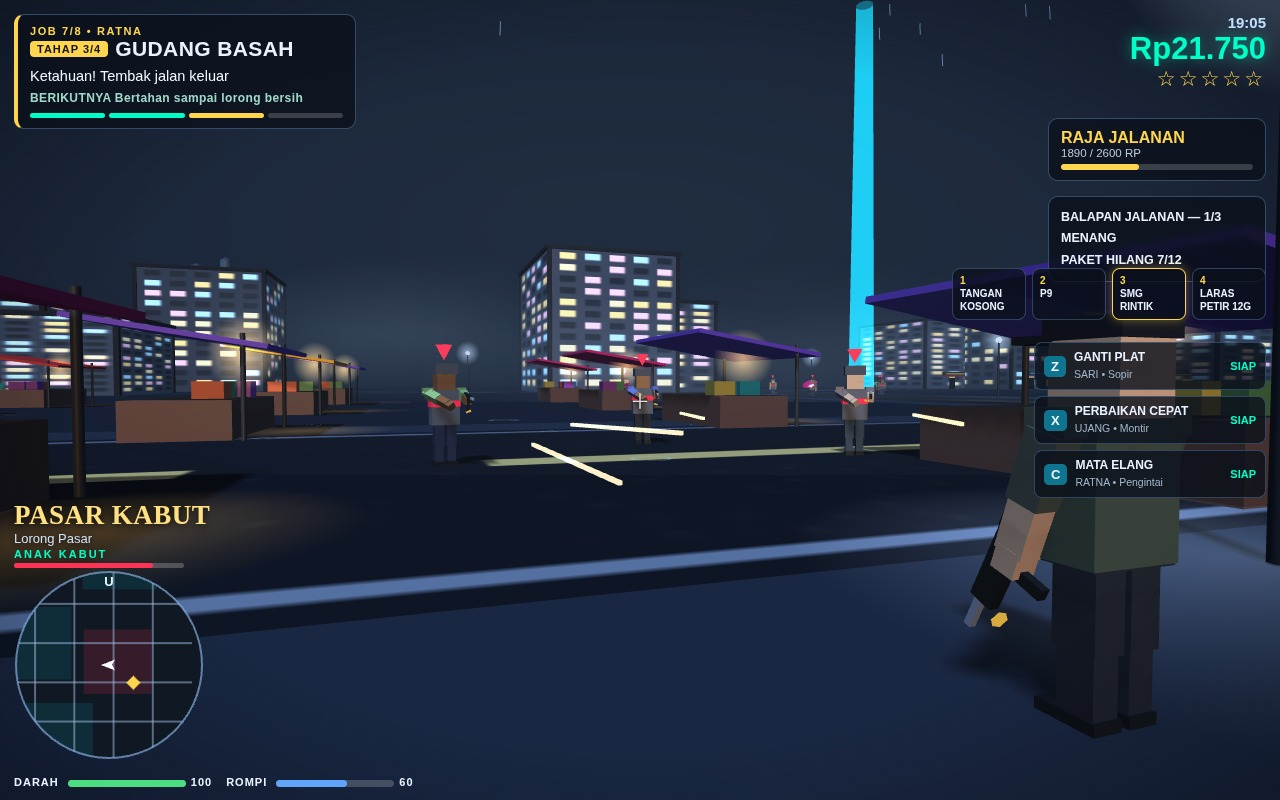
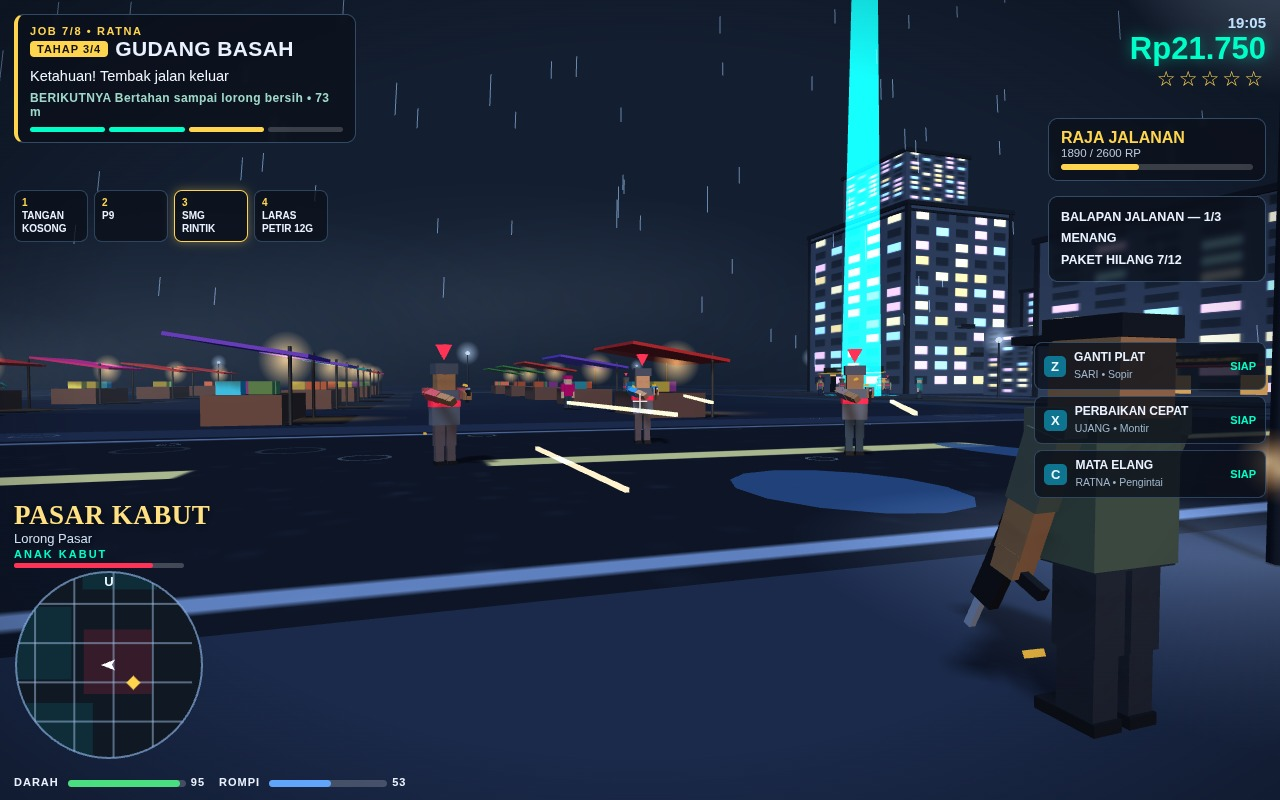
rev6: station sign rides as a lightbox over the entrance portal (clear of columns/beams from street + vista); weapon slots move under the mission panel (dispatch stacks below them); cover/duel/title re-captured

diff --git a/game/src/city.js b/game/src/city.js
@@ -811,12 +811,31 @@ function buildStasiun(world) {
   // THE SIGN, twice: the original board faces the platform (+Z). The
   // street board used to sit beside it on the roofline — but the new
   // parapet hid its lower half from street level (item-16, owner:
-  // "sign-nya nggak kelihatan"). It now hangs on the FACADE, in the
-  // band between the arch tops (y 8) and the cornice (y 12.45),
-  // proud of both, rotated PI so the street reads STASIUN KOTA
-  // correctly — fully visible from the forecourt and from above.
+  // "sign-nya nggak kelihatan"). It then hung on the FACADE band
+  // (y 10.35, z cz-5.15) — and STILL lost its edges: the entrance
+  // portal columns stand at z-front 226.15, in FRONT of that plane,
+  // and from the low vista camera they clipped the S of STASIUN and
+  // the JAM of the sub-line while the cornice and canopy lines
+  // hemmed it top and bottom (owner, on the final cover: "masih
+  // ketutupan palang"). So the board now rides as a lightbox on two
+  // risers over the entrance portal at z cz-9.5 — in front of the
+  // facade, the arches, the portal columns and the canopy, with
+  // clear air on every side, so NOTHING crosses it from street
+  // level or from the vista angle. Rotated PI so the street reads
+  // STASIUN KOTA correctly.
   neonSign(world, 'STASIUN KOTA', 'KERETA MALAM • LOKET 24 JAM', '#ffb347', '#171003', 20, cx, 15.4, cz - 4.6);
-  neonSign(world, 'STASIUN KOTA', 'KERETA MALAM • LOKET 24 JAM', '#ffb347', '#171003', 19, cx, 10.35, cz - 5.15, Math.PI);
+  neonSign(world, 'STASIUN KOTA', 'KERETA MALAM • LOKET 24 JAM', '#ffb347', '#171003', 19, cx, 10.35, cz - 9.5, Math.PI);
+  const signBox = new T.Mesh(new T.BoxGeometry(19.5, 5.15, 0.3), new T.MeshPhongMaterial({ color: 0x11161f, shininess: 24 }));
+  signBox.position.set(cx, 10.35, cz - 9.3); world.add(signBox);
+  // Risers lintel -> lightbox, kept SHORT and BEHIND the board's
+  // plane: a first cut ran them 2.6 tall straddling the plane, and
+  // from the vista camera the left riser's top crossed the sub-
+  // line's J — a palang of my own making. Top now stops at y 7.70,
+  // clear of the board's bottom edge (7.975).
+  for (const px of [cx - 7, cx + 7]) {
+    const riser = new T.Mesh(new T.BoxGeometry(0.34, 0.65, 0.34), facadeMat);
+    riser.position.set(px, 7.375, cz - 9.3); world.add(riser);
+  }
   // --- the hall gets MASS: cornice + frieze, a roof volume with a
   // parapet and rooftop clutter, two side wings, and a recessed
   // entrance portal on columns — from any 3/4 angle it now reads as

diff --git a/game/index.html b/game/index.html
@@ -28,8 +28,8 @@
   #mSegs .seg.done { background: #00ffc8; }
   #mSegs .seg.now { background: #ffd54f; }
 
-  /* dispatch panel — under the mission, red-ruled, hidden until wanted */
-  #dispatchPanel { border-left: 4px solid #ff3355; display: none; left: 14px; top: 196px; width: 342px; }
+  /* dispatch panel — under the mission + weapon row, red-ruled, hidden until wanted */
+  #dispatchPanel { border-left: 4px solid #ff3355; display: none; left: 14px; top: 268px; width: 342px; }
   #dHead { color: #ff8fa5; font-size: 12px; font-weight: 900; letter-spacing: 1.2px; }
   .dunit { display: flex; font-size: 12.5px; font-weight: 700; justify-content: space-between; margin-top: 5px; }
   .dtac { background: #274b73; border-radius: 4px; color: #bfe0ff; font-size: 11px; padding: 0 6px; }
@@ -65,8 +65,10 @@
   #rankFill { background: #ffd54f; border-radius: 3px; height: 100%; width: 0%; }
   #activityPanel { font-size: 12.5px; font-weight: 700; line-height: 1.7; right: 14px; top: 196px; width: 218px; }
 
-  /* weapon slots + crew cards — right edge, under the activity panel */
-  #weaponSlots { display: flex; gap: 6px; position: fixed; right: 14px; top: 268px; z-index: 5; }
+  /* weapon slots — under the mission panel, top-left (owner: the
+     right-edge stack blocked the view and got covered itself);
+     crew cards stay on the right edge under the activity panel */
+  #weaponSlots { display: flex; gap: 6px; left: 14px; position: fixed; top: 190px; z-index: 5; }
   .wslot { background: rgba(10,16,26,0.78); border: 1px solid rgba(120,180,240,0.3); border-radius: 8px; font-size: 10px; padding: 6px 7px; width: 74px; }
   .wslot.active { border-color: #ffd54f; box-shadow: 0 0 10px rgba(255,213,79,0.4); }
   .wslot.locked { opacity: 0.38; }
